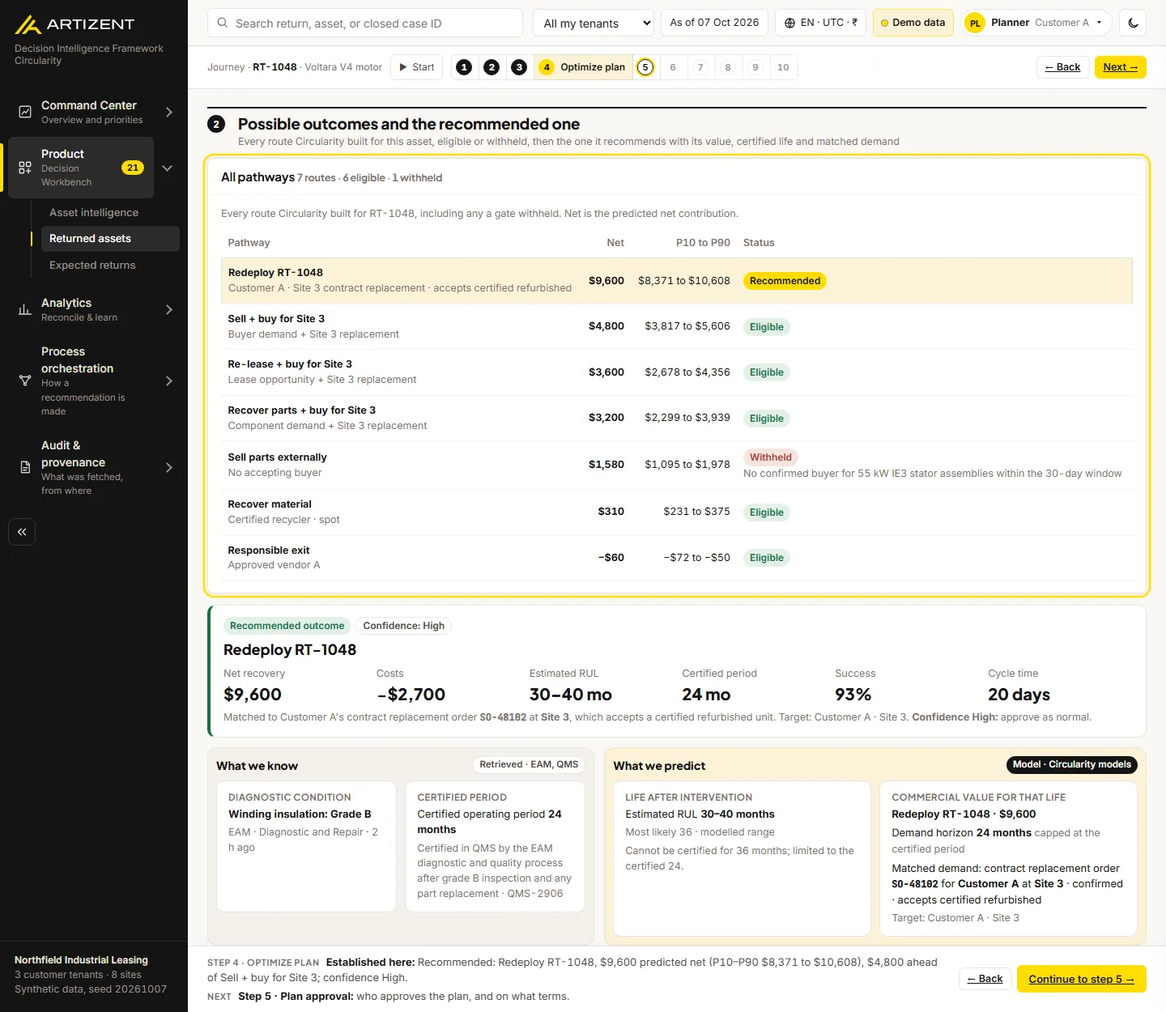
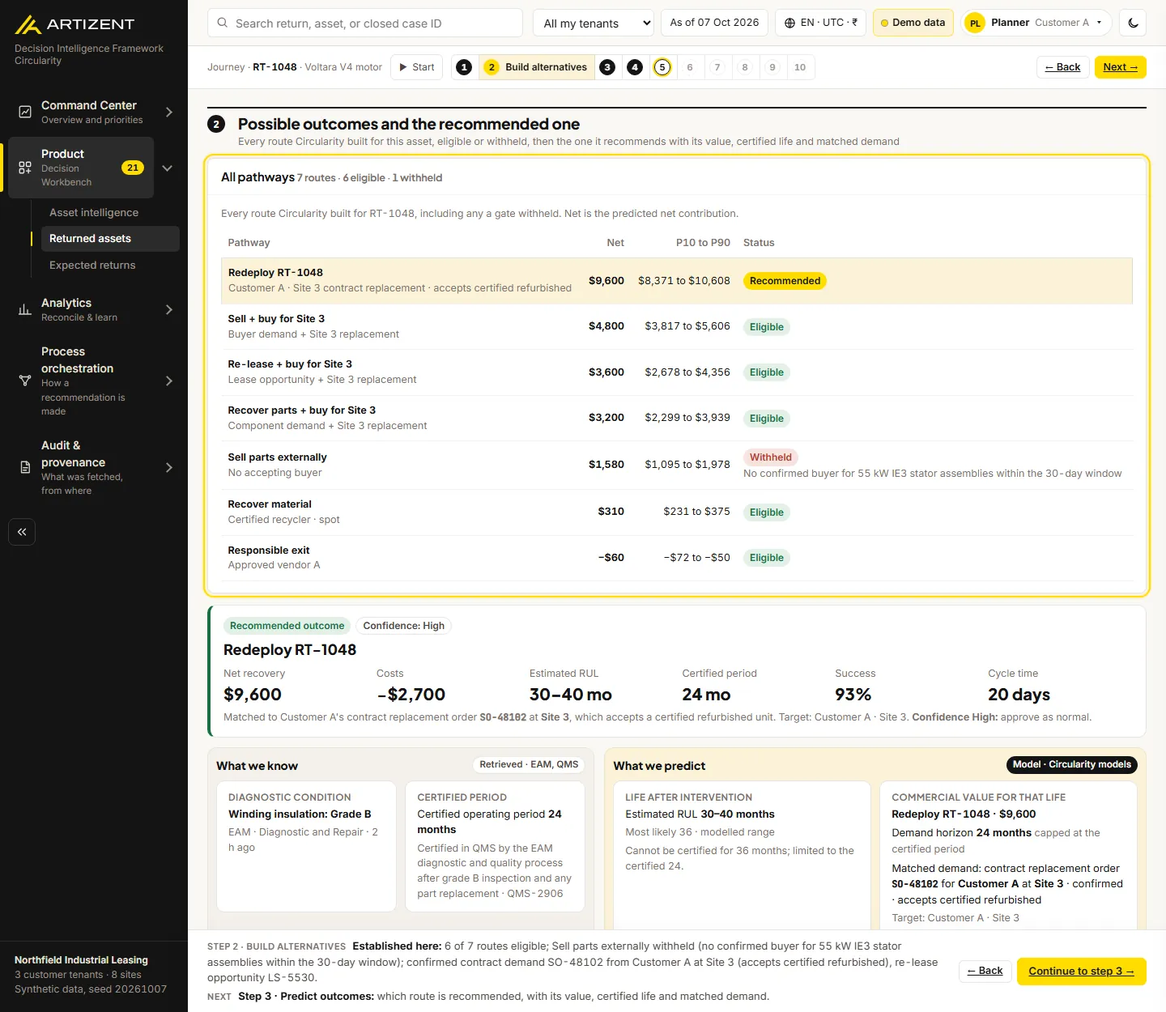
Journey steps 2-4 on Treatment Intelligence: all pathways, recommended path, why and what-if
Product Owner feedback (19 Oct): journey step 2 should land on every
possible outcome (All pathways), step 3 on the recommended path, then
the remaining steps as before.

- JG: step 2 -> product/<id>?step=2&jstep=2 (highlights #tiAllPaths),
  step 3 -> ?step=2&jstep=3 (#tiRecPath, the recommended outcome just
  below), step 4 -> ?step=3&jstep=4 (#tiA why this outcome, #tiImpact
  what-if). Steps 1 and 5-10 unchanged.
- Step status: 3 and 4 are done once a route is recommended; guide
  lines and "what the next step answers" rewritten for steps 2-4.
- Asset Intelligence's Predictions page is no longer a journey stop;
  the Retrieved data page links to it ("See what Circularity predicts
  for this asset") and it links back.
- Docs: demo and voiceover scripts, user-flow (SVG, PNG, Mermaid),
  journey slide (SVG, PNG), README step table, CHANGES Update 11;
  screenshots retaken.

Tests: role 208, guided flow 110, demo 91, iteration two 51,
iteration three 61, 390 px 25; no console errors.

Changed region(s): [[0.1875, 0.9048, 1.0, 0.9984], [0.4062, 0.0312, 0.5938, 0.0936]]

diff --git a/index.html b/index.html
@@ -89,7 +89,7 @@ tr.dpfocus>td{background:var(--yellow-soft)}
 .asbody2{display:grid;grid-template-columns:208px minmax(0,1fr);gap:18px;align-items:start}
 .asside{position:sticky;top:72px;display:grid;gap:8px;align-content:start}
 .asside .asvt{display:grid;gap:2px;border:0;margin:0;overflow:visible}
-.asside .asvt button{display:grid;gap:2px}.asside .asvt button .note{font-weight:400;font-size:12px}.ascr2{margin:0 0 12px}
+.asside .asvt button{display:grid;gap:2px}.asside .asvt button .note{font-weight:400;font-size:12px}.ascr2{margin:0 0 12px}.aszsw{justify-self:start;margin-top:4px}
 .asside .asvt button,.asvc{text-align:left;border:0;border-radius:8px;padding:8px 12px;background:none;font-weight:600;color:var(--ink2);white-space:normal;border-bottom:0}
 .asside .asvt button[aria-selected=true]{background:var(--yellow-soft);color:var(--ink);box-shadow:inset 3px 0 0 var(--yellow)}
 .asside .asvt button:hover,.asvc:hover{background:var(--panel2);color:var(--ink)}
@@ -1610,10 +1610,10 @@ const dpId=()=>S.dpCase||DEMO_ID;
 const hq=k=>{const m=new RegExp('[?&]'+k+'=([^&]*)').exec(location.hash);return m?decodeURIComponent(m[1]):null};
 /* the journey strip is the navigation: Start plus the ten steps of the Product Owner's "Typical User Journey",
    each a link to its own screen and section for the case in view. jstep=N is additive to the earlier links. */
-const JG=[{n:0,h:id=>'product/received?focus='+id},{n:1,h:id=>'product/asset/'+id+'?zone=known&jstep=1'},{n:2,h:id=>'product/asset/'+id+'?zone=predicted&jstep=2'},{n:3,h:id=>'product/asset/'+id+'?zone=predicted&jstep=3'},
- {n:4,h:id=>'product/'+id+'?step=2&jstep=4'},{n:5,h:id=>'product/'+id+'?step=5&jstep=5'},...[6,7,8,9].map(n=>({n,h:id=>'product/'+id+'?step=5&at=handoff&jstep='+n})),{n:10,h:id=>'product/'+id+'?step=5&at=reconcile&jstep=10'}];
+const JG=[{n:0,h:id=>'product/received?focus='+id},{n:1,h:id=>'product/asset/'+id+'?zone=known&jstep=1'},{n:2,h:id=>'product/'+id+'?step=2&jstep=2'},{n:3,h:id=>'product/'+id+'?step=2&jstep=3'},
+ {n:4,h:id=>'product/'+id+'?step=3&jstep=4'},{n:5,h:id=>'product/'+id+'?step=5&jstep=5'},...[6,7,8,9].map(n=>({n,h:id=>'product/'+id+'?step=5&at=handoff&jstep='+n})),{n:10,h:id=>'product/'+id+'?step=5&at=reconcile&jstep=10'}];
 /* what each step's screen scrolls to and highlights */
-const JG_TGT={1:['#aszKnown'],2:['#asEligCard','#asDemandCard'],3:['#asRulCard','#asEconCard'],4:['#tiAllPaths'],5:['#tiDecision'],6:['#tiInstr'],7:['#tiHo1','#tiHo2'],8:['#tiHo2'],9:['#tiHo3','#tiHo4'],10:['#tiReconcile']};
+const JG_TGT={1:['#aszKnown'],2:['#tiAllPaths'],3:['#tiRecPath'],4:['#tiA','#tiImpact'],5:['#tiDecision'],6:['#tiInstr'],7:['#tiHo1','#tiHo2'],8:['#tiHo2'],9:['#tiHo3','#tiHo4'],10:['#tiReconcile']};
 const jgT=n=>n?JSTEPS[n-1][1]:'Returned assets';
 const jgL=n=>n?'Step '+n+' · '+jgT(n):'Start · Returned assets';
 const jgLt=n=>n?tr('Step')+' '+n+' · '+tr(jgT(n)):tr('Start')+' · '+tr('Returned assets');
@@ -1628,12 +1628,12 @@ function jgCase(r){if(!S.acct||(r.page!=='product'&&r.page!=='analytics'))return
   return id&&dpVisible(id)?id:null}
 /* which step this screen shows: jstep when it belongs to the page, else read from the link */
 function jgAt(r){const js=parseInt(hq('jstep'));
-  if(r.page==='product'&&r.a==='asset')return js>=1&&js<=3?js:hq('zone')==='predicted'?2:1;
-  if(r.page==='product'&&CASE_BY_ID[r.a])return js>=4&&js<=10?js:hq('at')==='reconcile'?10:hq('at')==='handoff'?6:hq('step')==='5'?5:4;
+  if(r.page==='product'&&r.a==='asset')return 1;
+  if(r.page==='product'&&CASE_BY_ID[r.a])return js>=2&&js<=10?js:hq('at')==='reconcile'?10:hq('at')==='handoff'?6:hq('step')==='5'?5:hq('step')==='3'||hq('step')==='4'?4:2;
   return r.page==='analytics'?10:0}
 /* how far the case has got, from its own data: a step is done when what it produces exists */
 function jgDone(c,n){const x=c.exec,st=x?x.steps:[],ak=i=>!!(st[i]&&st[i].state==='done'),live=c.stage!=='reeval';
-  return [()=>!!c.recommendation||(c.assessment!=='Pending'&&(c.evidence||[]).every(e=>e.state==='ready')),()=>c.routes.length>0,()=>c.routes.length>0,()=>!!c.recommendation,
+  return [()=>!!c.recommendation||(c.assessment!=='Pending'&&(c.evidence||[]).every(e=>e.state==='ready')),()=>c.routes.length>0,()=>!!c.recommendation,()=>!!c.recommendation,
    ()=>!!c.approval&&live,()=>!!x&&live,()=>ak(0),()=>ak(1),()=>ak(3),()=>!!c.outcome][n-1]()}
 function jgProg(c){for(let n=1;n<=10;n++)if(!jgDone(c,n))return n;return 11}
 const jgState=(c,n)=>{const p=jgProg(c);return n<p?'done':n===p?'cur':'todo'};
@@ -1644,18 +1644,18 @@ function jgStrip(r,id){const c=CASE_BY_ID[id],at=jgAt(r),p=jgProg(c),prev=at>0?J
    <ol class="jgol">${JSTEPS.map(j=>{const n=j[0],st=n<p?'done':n===p?'cur':'todo';return `<li><a class="jstep ${j[2]==='built'?'built':j[2]} jg-${st} ${n===at?'on':''}" href="#/${JG[n].h(id)}" ${n===at?'aria-current="step"':''} aria-label="Step ${n}: ${esc(j[1])}, ${JG_ST[st]}" data-tip="Step ${n}: ${esc(j[1])}. ${esc(j[3])}. ${id}: ${JG_ST[st]}."><span class="n">${n}</span><span class="t">${esc(tr(j[1]))}</span></a></li>`}).join('')}</ol>
    <span class="jgnav2">${prev?`<a class="btn sm" id="jgBack" href="#/${prev.h(id)}" aria-label="Back: ${esc(jgL(prev.n))}">← ${tr('Back')}</a>`:''}${next?`<a class="btn sm pri" id="jgNext" href="#/${next.h(id)}" aria-label="Next: ${esc(jgL(next.n))}" data-tip="Next: ${esc(jgL(next.n))}">${tr('Next')} →</a>`:`<a class="btn sm" id="jgRestart" href="#/${JG[0].h(id)}">${tr('Start again')}</a>`}</span></nav>`}
 /* the guide: what this step established for this case, what the next step answers, and Continue */
-const JG_NEXT=['','what the enterprise systems know about this asset: condition, certification and history.','which treatments are eligible, and what demand exists for this asset.','how long it will last, and what each route is worth.','every route compared, and which one is recommended and why.','who approves the plan, and on what terms.','what goes to ERP, EAM and WMS once the plan is approved.','the orders the enterprise systems create, with their references.','the repair, the final tests and the certification.','the transfer, and the outcome reported back with actual costs.','predicted against actual, line by line, and which model learns from each line.'];
-const JG_AFTER=['','the asset is received','the evidence is complete (step 1)','the routes are built (step 2)','the outcomes are predicted (step 3)','a plan is selected (step 4)','approval (step 5)','the instruction is sent (step 6)','the execution work is created (step 7)','repair and certification (step 8)','the outcome is returned (step 9)'];
+const JG_NEXT=['','what the enterprise systems know about this asset: condition, certification and history.','every route Circularity built for this asset, eligible or withheld, with its predicted value and the demand it serves.','which route is recommended, with its value, certified life and matched demand.','why that route wins, and what would change the ranking (what-if and edge cases).','who approves the plan, and on what terms.','what goes to ERP, EAM and WMS once the plan is approved.','the orders the enterprise systems create, with their references.','the repair, the final tests and the certification.','the transfer, and the outcome reported back with actual costs.','predicted against actual, line by line, and which model learns from each line.'];
+const JG_AFTER=['','the asset is received','the evidence is complete (step 1)','the routes are built (step 2)','a route is recommended (step 3)','the plan is explained (step 4)','approval (step 5)','the instruction is sent (step 6)','the execution work is created (step 7)','repair and certification (step 8)','the outcome is returned (step 9)'];
 function jgEst(c,n){const R=caseRul(c),r=c.chosen||c.recommendation,x=c.exec,st=x?x.steps:[],M=caseDemand(c),ref=i=>st[i]&&st[i].ack?refLabel(st[i]):'';
   if(n===0)return `${visCases().length} returned assets in your view. ${c.id} is selected: ${asModel(c)}, ${c.owner}, ${c.location}.`;
   if(n===1){const k=asReturnHistory(c).length,miss=(c.evidence||[]).filter(e=>e.state!=='ready').length;
     return `${c.grade?'Grade '+c.grade+' from '+(c.cls==='motor'||c.cls==='pump'?'EAM':'inspection'):'Not graded yet'}${R?', certified for '+R.certMonths+' months ('+R.certRef+')':''}, received at ${c.location}, returned ${k===1?'once':k===2?'twice':k+' times'} before${miss?'; '+miss+' evidence item'+(miss>1?'s':'')+' not complete yet':''}.`}
   if(n===2){const ex=c.routes.filter(z=>z.excluded),dem=M&&M.order?(M.confirmed?'confirmed':'forecast')+' contract demand '+M.order+' from '+c.owner+' at '+(M.site||'another site')+' (accepts certified refurbished)'+(M.lease?', re-lease opportunity '+M.lease:''):M&&M.lease?'re-lease opportunity '+M.lease:'no internal demand matched';
     return `${c.routes.length-ex.length} of ${c.routes.length} routes eligible${ex.map(z=>'; '+z.plan+' withheld ('+jgLc(z.failReason||'a gate failed')+')').join('')}; ${dem}.`}
-  if(n===3){const el=c.routes.filter(z=>!z.excluded).sort((a,b)=>b.net-a.net),lo=el[el.length-1];
-    return `${R?'Estimated life '+R.estLow+'–'+R.estHigh+' months, certified '+R.certMonths:'No life estimate yet'}; ${el.length>1?'predicted net from '+money(lo.net)+' ('+lo.plan+') to '+money(el[0].net)+' ('+el[0].plan+') across '+el.length+' eligible routes':el.length?'one eligible route, '+el[0].plan+', at '+money(el[0].net):'no eligible route to price'}.`}
-  if(n===4){const q=c.recommendation,nx=c.routes.filter(z=>!z.excluded&&z!==q).sort((a,b)=>b.net-a.net)[0];
+  if(n===3){const q=c.recommendation,nx=c.routes.filter(z=>!z.excluded&&z!==q).sort((a,b)=>b.net-a.net)[0];
     return `Recommended: ${q.plan}, ${money(q.net)} predicted net (P10–P90 ${money(q.p10)} to ${money(q.p90)})${nx?', '+money(q.net-nx.net)+' ahead of '+nx.plan:''}; confidence ${tiConf(c,q)}.`}
+  if(n===4){const q=c.recommendation,fl=flips(c)[0];
+    return `${q.plan} ranks first on net value${fl?'; the ranking changes if '+jgLc(fl.txt):'; no other eligible route competes'}; ${R?'certified for '+R.certMonths+' months against an estimated '+R.estLow+'–'+R.estHigh:'no life estimate yet'}.`}
   if(n===5)return `${c.override?'Override approved':'Approved'} by ${c.approval.by} under ${c.approval.ref}${c.approval.spend!=null?', spend authority '+money(c.approval.spend):''}: ${r.plan}.`;
   if(n===6)return `Instruction ${x.ref} sent to ${[...new Set(st.map(y=>y.sys.split(' · ')[0]))].join(', ')}; ${st.filter(y=>y.state==='done').length} of ${st.length} acknowledged.`;
   if(n===7)return `${ref(0)} returned by ${st[0].ack.by} for the ${jgLc(st[0].label)}${st[1].ack?'; '+jgLc(ref(1))+' from '+st[1].ack.by:st[1].state==='active'?'; the '+jgLc(st[1].label)+' is with '+st[1].sys:''}.`;
@@ -1665,8 +1665,8 @@ function jgEst(c,n){const R=caseRul(c),r=c.chosen||c.recommendation,x=c.exec,st=
 function jgWait(c,n,s){const x=c.exec,st=x?x.steps:[],p=jgProg(c);
   if(s==='todo')return `This happens after ${JG_AFTER[n]}. ${c.id} is at step ${p}, ${jgLc(jgT(p))}.`;
   if(n===1){const m=(c.evidence||[]).filter(e=>e.state!=='ready').map(e=>jgLc(e.label));return `Evidence still incomplete${m.length?': '+m.join(', '):''}${c.assessment==='Pending'?(m.length?'; ':': ')+'no inspection yet':''}.${c.blocked?' '+c.blocked.owner+' supplies it.':''}`}
-  if(n<=3)return `No route can be built yet${c.blocked?': '+jgLc(c.blocked.reason):''}.`;
-  if(n===4)return `No eligible route: every route failed a gate${c.blocked?' ('+jgLc(c.blocked.reason)+')':''}. Human review is needed.`;
+  if(n<=2)return `No route can be built yet${c.blocked?': '+jgLc(c.blocked.reason):''}.`;
+  if(n<=4)return `No eligible route: every route failed a gate${c.blocked?' ('+jgLc(c.blocked.reason)+')':''}. Human review is needed.`;
   if(n===5)return c.stage==='reeval'?`On hold for re-evaluation: ${jgLc(c.reevalReason||'a review was triggered')}.`:`Waiting for ${c.submitted?'an Approver to approve, override or decline it (submitted by '+c.submitted.by+')':can('submit')?'you to submit it for review; an Approver then decides':'the Planner to submit it, then an Approver to decide'}.`;
   if(n===6)return 'Approved; the instruction is being prepared.';
   if(n===7)return `Sent; waiting for ${st[0].sys} to acknowledge the ${jgLc(st[0].label)}.`;
@@ -2425,7 +2425,7 @@ ACT.dataChecks=()=>{const res=runInvariants(),ok=res.filter(r=>r.ok).length;
   openModal('Data integrity checks',`<p class="ink2" style="margin-top:0">One seeded generator feeds all four pages, so numbers reconcile everywhere. These checks run on every load.</p><div class="callout ${ok===res.length?'ok':'bad'}" style="margin-bottom:12px"><b>${ok} of ${res.length} checks pass.</b> Seed 20261007 · mulberry32</div>${res.map(r=>`<div class="ev ${r.ok?'':'missing'}"><span class="ic">${r.ok?'✓':'!'}</span><div><b>${esc(r.name)}</b><small>${esc(r.detail)}</small></div></div>`).join('')}`,`<button class="btn" data-act="closeModal">Close</button>`,true)};
 function afterRender(r,keep){if(typeof wfPaint==='function'&&S.wf&&$('#wfView'))wfPaint();$$('[data-nk="product/asset"]').forEach(a=>a.setAttribute('href',navHref(NAV[1],'asset')));if(r&&!keep&&ANCH[r.page]&&r.a)setTimeout(()=>anchorScroll(r),30);
   const js=r&&parseInt(hq('jstep')),jsOK=!!(r&&js>=1&&js<=10&&jgCase(r)&&jgAt(r)===js);
-  if(jsOK){const T=JG_TGT[js].map(x=>$(x)).filter(Boolean),f=(T.length?T:[$(js<=3?(js===1?'#aszKnown':'#aszPred'):'#step-5')].filter(Boolean)).sort((a,b)=>a.compareDocumentPosition(b)&4?-1:1);f.forEach(e=>e.classList.add('jghl'));if(!keep&&f[0])setTimeout(()=>f[0].scrollIntoView({block:'start'}),40);return}
+  if(jsOK){const T=JG_TGT[js].map(x=>$(x)).filter(Boolean),f=(T.length?T:[$(js===1?'#aszKnown':js<=4?'#step-2':'#step-5')].filter(Boolean)).sort((a,b)=>a.compareDocumentPosition(b)&4?-1:1);f.forEach(e=>e.classList.add('jghl'));if(!keep&&f[0])setTimeout(()=>f[0].scrollIntoView({block:'start'}),40);return}
   if(r&&!keep&&r.page==='product'&&r.a==='asset'&&hq('zone')){const z=$(hq('zone')==='predicted'?'#aszPred':'#aszKnown');if(z)setTimeout(()=>z.scrollIntoView({block:'start',behavior:matchMedia('(prefers-reduced-motion: reduce)').matches?'auto':'smooth'}),40)}
   if(r&&!keep&&r.page==='product'&&(!r.a||r.a==='received')){const f=hq('focus'),row=f&&$('#qr-'+f);if(row)setTimeout(()=>{if(row.getBoundingClientRect().bottom>innerHeight)row.scrollIntoView({block:'center'})},40)}
   if(r&&!keep&&r.page==='product'&&r.a&&CASE_BY_ID[r.a]){const m=/[?&](?:step=(\d)|(explain))/.exec(location.hash);if(m)setTimeout(()=>{const ho=hq('at')==='handoff'&&$('#tiHandoff');if(ho)ho.scrollIntoView({block:'start'});else if(m[1])ACT.tiStep(m[1]);else ACT.tiExplain()},40)}}
@@ -3042,7 +3042,7 @@ function asOverview(c,h){const ok=asTabOK,z=hq('zone'),ws=c.cls==='motor'||c.cls
    ok('data')&&asPanel('Data and evidence quality',asQuality(c),'data','',provB('rul','Evidence scoring')),
    ok('economic')&&asPanel('Economic intelligence',asEcon(c)+asCostBuild(c,h)+asPredRoutes(c),'economic','aszw',provB('mod','Prediction model'),'asEconCard')].filter(Boolean);
   const pg=asPageOf();
-  return `<div class="aszs">${pg==='known'?`<div class="asz known ${z==='known'?'on':''}" id="aszKnown" aria-labelledby="aszKh"><header class="aszh"><span class="aszk">1 · Retrieved data · journey step 1, supply evidence</span><h2 id="aszKh">Retrieved from enterprise systems</h2><p class="note">Facts pulled from EAM, QMS, ERP, WMS and PLM. Each card names its source. Circularity reads these; it does not change them.</p></header>${L.join('')}</div>`:`<div class="asz pred ${z==='predicted'?'on':''}" id="aszPred" aria-labelledby="aszPh"><header class="aszh"><span class="aszk">2 · Predictions · journey steps 2–3, build alternatives and predict outcomes</span><h2 id="aszPh">Predicted and computed by Circularity</h2><p class="note">Model estimates and rule results, each labelled with what produced it. Recommended routes and values appear only on this page.</p></header>${Rt.join('')}</div>`}</div>`}
+  return `<div class="aszs">${pg==='known'?`<div class="asz known ${z==='known'?'on':''}" id="aszKnown" aria-labelledby="aszKh"><header class="aszh"><span class="aszk">Retrieved data · journey step 1, supply evidence</span><h2 id="aszKh">Retrieved from enterprise systems</h2><p class="note">Facts pulled from EAM, QMS, ERP, WMS and PLM. Each card names its source. Circularity reads these; it does not change them.</p><button class="lnk aszsw" data-act="asZone" data-arg="pred">See what Circularity predicts for this asset →</button></header>${L.join('')}</div>`:`<div class="asz pred ${z==='predicted'?'on':''}" id="aszPred" aria-labelledby="aszPh"><header class="aszh"><span class="aszk">Predictions · eligibility, demand, life and value for this asset</span><h2 id="aszPh">Predicted and computed by Circularity</h2><p class="note">Model estimates and rule results, each labelled with what produced it. Recommended routes and values appear only on this page.</p><button class="lnk aszsw" data-act="asZone" data-arg="known">← Retrieved data</button></header>${Rt.join('')}</div>`}</div>`}
 /* ---- focused tab views + compare ---- */
 const asTbl=(head,rows,cls)=>`<div class="tw"><table class="t static tight ${cls||''}"><thead><tr>${head.map(h=>`<th class="${h[1]||''}">${h[0]}</th>`).join('')}</tr></thead><tbody>${rows.join('')||`<tr><td colspan="${head.length}"><div class="empty"><b>Nothing to show</b></div></td></tr>`}</tbody></table></div>`;
 function asNet(x){return x.recommendation?x.recommendation.net:null}
@@ -3224,9 +3224,9 @@ function tiPredicted(c){const R=caseRul(c),r=c.chosen||c.recommendation,M=caseDe
 function tiAllPaths(c){const rec=c.recommendation,ch=c.chosen,rs=c.routes.slice().sort((a,b)=>b.net-a.net),el=rs.filter(r=>!r.excluded).length;if(!rs.length)return '';
   return asPanel(`All pathways <span class="note">${rs.length} route${rs.length>1?'s':''} · ${el} eligible · ${rs.length-el} withheld</span>`,`<p class="note" style="margin:0 0 8px">Every route Circularity built for ${c.id}, including any a gate withheld. Net is the predicted net contribution.</p>`+asTbl([['Pathway'],['Net','r'],['P10 to P90','r'],['Status']],rs.map(r=>`<tr class="${r===(ch||rec)?'sel':''}" data-route="${r.id}" data-st="${r===rec?'rec':r.excluded?'withheld':'eligible'}"><td><b>${esc(r.plan)}</b>${r.demandLabel?`<div class="note">${esc(r.demandLabel)}</div>`:''}</td><td class="r num"><b>${money(r.net)}</b></td><td class="r num">${money(r.p10)} to ${money(r.p90)}</td><td>${r===rec?'<span class="chip y">Recommended</span> ':''}${ch&&ch!==rec&&r===ch?'<span class="chip ok">Approved (override)</span>':''}${r.excluded?`<span class="chip bad">Withheld</span><div class="note">${esc(r.failReason||'A gate failed')}</div>`:r!==rec&&r!==ch?'<span class="chip ok">Eligible</span>':''}</td></tr>`),'tiallp'),null,'tiallw',null,'tiAllPaths')}
 /* step 2: the recommended outcome in one block */
-function tiOutcome(c,sr,rows){const r=c.chosen||c.recommendation;if(!r)return `${tiAllPaths(c)}<div class="panel"><div class="pb"><div class="empty"><b>No recommended outcome yet</b>${c.blocked?esc(c.blocked.reason):'Evidence is needed first.'}</div></div></div>${tiClv(c)}`;
+function tiOutcome(c,sr,rows){const r=c.chosen||c.recommendation;if(!r)return `${tiAllPaths(c)}<div class="panel" id="tiRecPath"><div class="pb"><div class="empty"><b>No recommended outcome yet</b>${c.blocked?esc(c.blocked.reason):'Evidence is needed first.'}</div></div></div>${tiClv(c)}`;
   const me=rows.find(z=>z.r===r)||Object.assign({r},tiM(c,{r,sn:r.net})),R=caseRul(c),M=caseDemand(c),t=tieBreak(c,rows),cf=tiConf(c,r);
-  return `${tiAllPaths(c)}<div class="tisum"><div class="tisumh"><span class="chip ok">Recommended outcome</span>${t&&t.near?'<span class="chip warn">Close call</span>':''}<span class="chip line" data-tip="${esc(CONF_DO[cf])}">Confidence: ${cf}</span></div><div class="tirt">${esc(r.plan)}</div>
+  return `${tiAllPaths(c)}<div class="tisum" id="tiRecPath"><div class="tisumh"><span class="chip ok">Recommended outcome</span>${t&&t.near?'<span class="chip warn">Close call</span>':''}<span class="chip line" data-tip="${esc(CONF_DO[cf])}">Confidence: ${cf}</span></div><div class="tirt">${esc(r.plan)}</div>
    <div class="tisumg"><div><span class="note">Net recovery</span><b class="num">${money(r.net)}</b></div><div><span class="note">Costs</span><b class="num">${money(me.cost)}</b></div><div><span class="note">Estimated RUL</span><b class="num">${R?R.estLow+'–'+R.estHigh+' mo':'—'}</b></div><div><span class="note">Certified period</span><b class="num">${R?R.certMonths+' mo':'—'}</b></div><div><span class="note">Success</span><b class="num">${me.prob}%</b></div><div><span class="note">Cycle time</span><b class="num">${me.days} days</b></div></div>
    <p class="note" style="margin:8px 0 0">${M&&M.order?'Matched to '+esc(c.owner)+'\'s contract replacement order <b class="mono">'+M.order+'</b> at <b>'+esc(M.site||'—')+'</b>, which accepts a certified refurbished unit. ':''}${r.target?'Target: '+esc(r.target)+'. ':''}<b>Confidence ${cf}:</b> ${CONF_DO[cf].toLowerCase()}.${t&&t.near?' '+esc(tieText(t)):''}</p></div>${tiClv(c)}`}
 /* step 4: top pathways side by side, base and simulated, with the secondary factors */

diff --git a/docs/demo/user-flow.md b/docs/demo/user-flow.md
@@ -11,9 +11,9 @@ flowchart LR
   S["<b>PLANNER</b><br/>Sign in<br/><i>Sign-in form</i>"]
   R["<b>PLANNER</b><br/>Returned assets<br/><i>Returned assets</i><br/>pick one asset: RT-1048, Start here"]
   B1["<b>ENTERPRISE SYSTEMS</b><br/>1. Supply evidence<br/><i>Asset Intelligence · retrieved data</i><br/>EAM Grade B · QMS certified 24 months · OMS RMA · procurement part prices · PLM/ERP/WMS catalogue, cost, stock"]
-  B2["<b>CIRCULARITY</b><br/>2. Build alternatives<br/><i>Asset Intelligence · eligibility, demand</i><br/>6 of 7 routes eligible · Customer A contract demand SO-48102 (accepts certified refurbished)"]
-  B3["<b>CIRCULARITY</b><br/>3. Predict outcomes<br/><i>Asset Intelligence · life and value</i><br/>life 30–40 months · value by route"]
-  B4["<b>CIRCULARITY</b><br/>4. Optimize plan<br/><i>Treatment Intelligence · step 2</i><br/>every route compared, withheld ones with the reason"]
+  B2["<b>CIRCULARITY</b><br/>2. Build alternatives<br/><i>Treatment Intelligence · all pathways</i><br/>every route, eligible or withheld · 6 of 7 routes eligible · Customer A contract demand SO-48102 (accepts certified refurbished)"]
+  B3["<b>CIRCULARITY</b><br/>3. Predict outcomes<br/><i>Treatment Intelligence · recommended path</i><br/>Redeploy, $9,600 · life 30–40 months, certified 24"]
+  B4["<b>CIRCULARITY</b><br/>4. Optimize plan<br/><i>Treatment Intelligence · why and what-if</i><br/>why it wins, what would change the ranking"]
   B5["<b>HUMAN IN THE LOOP</b><br/>5. Plan approval<br/><i>Treatment Intelligence · step 5</i><br/>approve, override or decline"]
   B6["<b>CIRCULARITY</b><br/>6. Send instruction<br/><i>Step 5 · instruction</i><br/>approved plan to ERP, EAM and WMS"]
   B7["<b>ENTERPRISE SYSTEMS</b><br/>7. Create execution work<br/><i>Handoff rows 1–2</i><br/>ERP Customer A contract replacement order SO-48102 · EAM work order"]
@@ -38,9 +38,9 @@ flowchart LR
 | Sign in | Any user | Sign-in form | `exec` lands on the Executive Command Center; `ops` lands on Returned assets |
 | Start | End user (Planner) | Returned assets (`product/received?focus=RT-1048`) | What has come back; RT-1048 is marked *Start here* |
 | 1 | Enterprise systems | Asset Intelligence, retrieved side (`?zone=known&jstep=1`) | Condition (EAM), certified period (QMS), lifecycle, return history, specs. The predicted side waits: *not evaluated yet* |
-| 2 | Circularity | Asset Intelligence, eligibility and demand (`?zone=predicted&jstep=2`) | Six gates, 6 of 7 routes eligible, matched demand SO-48102 at Site 3, re-lease opportunity LS-5530 |
-| 3 | Circularity | Asset Intelligence, life and value (`?zone=predicted&jstep=3`) | Remaining life 30–40 months, value by route |
-| 4 | Circularity | Treatment Intelligence, step 2 (`product/RT-1048?step=2&jstep=4`) | Recommended outcome and **all pathways**: every route, net, P10–P90, eligible or withheld with the reason |
+| 2 | Circularity | Treatment Intelligence, All pathways (`product/RT-1048?step=2&jstep=2`) | Every route, net, P10–P90, eligible or withheld with the reason: 7 routes, 6 eligible; contract demand SO-48102 |
+| 3 | Circularity | Treatment Intelligence, recommended path (`?step=2&jstep=3`) | Redeploy RT-1048, $9,600, confidence High, life 30–40 months, certified 24 |
+| 4 | Circularity | Treatment Intelligence, why and what-if (`?step=3&jstep=4`) | Recommended outcome and **all pathways**: every route, net, P10–P90, eligible or withheld with the reason |
 | 5 | Human in the loop | Treatment Intelligence, step 5 (`?step=5&jstep=5`) | Planner submits; Approver approves, overrides or declines |
 | 6 | Circularity | Step 5, instruction (`?step=5&at=handoff&jstep=6`) | The approved instruction goes to ERP, EAM and WMS |
 | 7 | Enterprise systems | Handoff rows 1–2 (`jstep=7`) | ERP returns the sales order (SO-48102); EAM returns the work order |

diff --git a/docs/demo/VOICEOVER_SCRIPT.md b/docs/demo/VOICEOVER_SCRIPT.md
@@ -13,9 +13,9 @@
 | 1 | Title slide, then the User Flow slide | When a leased asset comes back, separate teams usually decide whether to sell it or scrap it, and nobody sees what it could have been worth. Circularity follows each returned asset through ten steps, from the evidence to the outcome. Nobody types data in: the signals arrive from the systems you already have, and Circularity builds up the picture as they come. | 0:20 |
 | 2 | Sign in as the planner; Returned assets with the Status signals | The planner signs in and sees what has come back. Each asset shows its signals: received, diagnostics, certification, and only then an economic path. This motor has every signal in. Others are still waiting for diagnostics, so they are not priced yet. | 0:20 |
 | 3 | Step 1: Asset Intelligence, retrieved data, Cost inputs | Step one is what the enterprise systems tell us. The diagnostics grade it B. The quality system certifies twenty-four months of life; Circularity reads that certificate, it does not certify equipment. The cost comes from the systems that own it: the catalogue value, the return authorisation from order management, the repair scope from diagnostics, and part prices from the supplier contracts. | 0:30 |
-| 4 | Step 2: eligibility and Matched demand | Step two builds the alternatives. Six of seven routes are eligible, and there is demand: Customer A's contract needs a replacement, and it accepts a certified refurbished motor with twenty-four months of life. | 0:15 |
-| 5 | Step 3: life and economics | Step three predicts the outcomes: thirty to forty months of remaining life, and a value for every route. | 0:10 |
-| 6 | Step 4: All pathways | Step four compares every option, including the one a gate withheld, with its reason. Redeploying to Customer A comes first, at nine thousand six hundred dollars. | 0:15 |
+| 4 | Step 2: Treatment Intelligence, All pathways | Step two lays out every possible outcome: seven routes, six eligible, and one a gate withheld, with its reason. Customer A's contract needs a replacement, and it accepts a certified refurbished motor. | 0:15 |
+| 5 | Step 3: the recommended path | Step three is the recommended path: redeploy to Customer A, nine thousand six hundred dollars, with thirty to forty months of life, certified for the twenty-four the contract needs. | 0:15 |
+| 6 | Step 4: why this outcome, what-if | Step four explains why it wins, and what would change the ranking. | 0:10 |
 | 7 | Step 5: submit, approve | Step five is a person. The planner submits; an approver reviews exactly what will be sent, and approves. | 0:15 |
 | 8 | Steps 6 to 9: the handoff rows filling in | Circularity sends the approved plan. From there, the enterprise systems decide how the work is done, and send back their references: the sales order, the work order, repaired, tested and certified, the transfer, and the fulfilment. | 0:20 |
 | 9 | Step 10: Reconcile and learn table | Step ten closes the loop. Predicted nine thousand six hundred, actual nine thousand two hundred and thirty. Preparation cost two hundred and seventy dollars more than predicted, so the cost model learns from exactly that line. | 0:20 |

diff --git a/docs/demo/DEMO_SCRIPT.md b/docs/demo/DEMO_SCRIPT.md
@@ -61,21 +61,25 @@ Show **User Flow** ([`user-flow.png`](user-flow.png)): the planner signs in, ope
 
    > "That is how we get the cost: the product value from the catalogue, the return authorisation from order management, what needs repairing from diagnostics, and the part prices from the supplier contracts."
 
-### Steps 2 and 3 · Build alternatives, predict outcomes
+### Step 2 · Build alternatives: every possible outcome
 
-4. **Continue to step 2**: the **Predictions** page opens, with *Eligibility and gates* and *Matched demand* outlined.
+4. **Continue to step 2**: Treatment Intelligence opens on **All pathways** (7 routes · 6 eligible · 1 withheld).
 
-   > "Six of seven routes are eligible. And there is demand: Customer A's contract needs a replacement at Site 3, order SO-48102. The contract accepts a certified refurbished motor; if it asked for a new one, we could not use this unit. It needs 24 months of certified life, and this motor has 24."
+   > "Every option is here: redeploy to Customer A at $9,600, sell, re-lease, recover parts, recover material, a responsible exit, and the one a gate withheld, with its reason. Redeploy works because Customer A's contract needs a replacement at Site 3, order SO-48102, and accepts a certified refurbished motor; if it asked for a new one, we could not use this unit."
 
-5. **Continue to step 3**: life and economics are outlined.
+### Step 3 · Predict outcomes: the recommended path
 
-   > "Thirty to forty months of life, and a value for every route. The preparation cost, $1,800, is the contracted parts plus predicted labour and transfer."
+5. **Continue to step 3**: the **recommended path**, just below the table, is outlined.
 
-### Step 4 · Optimize plan
+   > "Circularity recommends redeploying: $9,600 predicted, $4,800 ahead of selling, high confidence. Thirty to forty months of life, certified for the 24 the contract needs."
 
-6. **Continue to step 4**: Treatment Intelligence step 2, **Possible outcomes**: the **All pathways** table first, then the recommended one.
+### Step 4 · Optimize plan: why, and what would change it
 
-   > "Every option is here: redeploy to Customer A at $9,600, sell, re-lease, recover parts, recover material, a responsible exit, and the one a gate withheld, with its reason."
+6. **Continue to step 4**: *Why this outcome* and the *what-if* are outlined.
+
+   > "Why it wins, and what would change the ranking: if the confirmed demand were cancelled, selling would come first. Here we can stress the assumptions." (Edge cases, part 2, are on this screen.)
+
+   *Optional, if asked about cost:* the asset page links to **See what Circularity predicts for this asset**, where *How the preparation cost is built* shows $1,800 = contracted parts + predicted labour and transfer.
 
 ### Step 5 · Plan approval
 

diff --git a/CHANGES.md b/CHANGES.md
@@ -27,6 +27,7 @@ Open `index.html`. The app opens on a **sign-in form** (Update 9): type `exec` o
 | **Certification** (T5) | Certified period, Matched demand | *Certified in QMS by the EAM diagnostic and quality process after inspection and any part replacement*, and *Circularity reads this certificate; it does not certify equipment*. Matched demand compares the life the contract needs with the certified life (*24 months needed · 24 certified · Covered*) |
 | **Redeploy to the customer** (T2, J5) | RT-1048 everywhere | Redeploy goes **to Customer A (Site 3)** against **contract replacement order SO-48102**, which **accepts a certified refurbished unit**; orders that need a new unit are never matched. Decision card *Redeploy RT-1048 to Customer A (Site 3)*; instruction preview, step 2, the guide and the header (*Contract demand*) use the same words. Route names and values do not change |
 | **Channel opportunity** | Command Center, Key figures | The *Treatment opportunity* chart (predicted volume in units by route) is renamed **Channel opportunity** |
+| **Journey steps 2–4 on Treatment Intelligence** | Journey strip and guide | **Step 2** opens Treatment Intelligence on **All pathways** (every possible outcome), **step 3** the **recommended path** just below it, **step 4** *Why this outcome* and the *what-if*; steps 5–10 are unchanged. Asset Intelligence's Predictions page is no longer a journey stop: it is one link away from Retrieved data (*See what Circularity predicts for this asset*) and links back |
 | **Possible outcomes first** | Treatment Intelligence, step 2 | Step 2 is now **Possible outcomes and the recommended one**: the *All pathways* table (every route, eligible or withheld with its reason) comes first, then the recommended outcome and the what-we-know / what-we-predict card. The rest of the flow is unchanged |
 | **Edge cases** (T4, J6) | Treatment Intelligence, step 4 | Two new buttons: **Critical part unavailable** withholds redeploy, re-lease and whole-unit sale (*critical component failed; no replacement in supplier contracts, so EAM and QMS cannot re-certify its life*): for RT-1048, *Recover parts* ranks first. **Customer requires a new unit** withholds redeploy. Each reason shows in the eligibility list and the what-if chips |
 | **Signals** (T6, J10) | Returned assets, Status column | Under each status, four signals (received, diagnostics, certification, economic path) and the next one awaited: *4/4 · ready*, *1/4 · awaiting EAM*. Assets without a route say *Not priced yet* instead of a dash |

diff --git a/README.md b/README.md
@@ -453,9 +453,9 @@ Sign in as `ops`: you land on **Returned assets**, with RT-1048 marked *Start he
 |---|---|
 | ▶ Start | Returned assets (`#/product/received?focus=RT-1048`) |
 | 1 Supply evidence | Asset Intelligence, retrieved side; the predicted side waits (`#/product/asset/RT-1048?zone=known&jstep=1`) |
-| 2 Build alternatives | Eligibility and gates, Matched demand (`…?zone=predicted&jstep=2`) |
-| 3 Predict outcomes | Remaining life, economic intelligence (`…?zone=predicted&jstep=3`) |
-| 4 Optimize plan | Treatment Intelligence step 2, All pathways (`#/product/RT-1048?step=2&jstep=4`) |
+| 2 Build alternatives | Treatment Intelligence, All pathways: every route, eligible or withheld (`#/product/RT-1048?step=2&jstep=2`) |
+| 3 Predict outcomes | The recommended path, just below (`…?step=2&jstep=3`) |
+| 4 Optimize plan | Why this outcome and the what-if (`…?step=3&jstep=4`) |
 | 5 Plan approval | The decision card: submit, then the Approver approves (`…?step=5&jstep=5`) |
 | 6 Send instruction | The instruction preview, or what was sent (`…?step=5&at=handoff&jstep=6`) |
 | 7 Create execution work | Handoff rows 1–2: ERP returns SO-48102, EAM a work order (`jstep=7`) |
